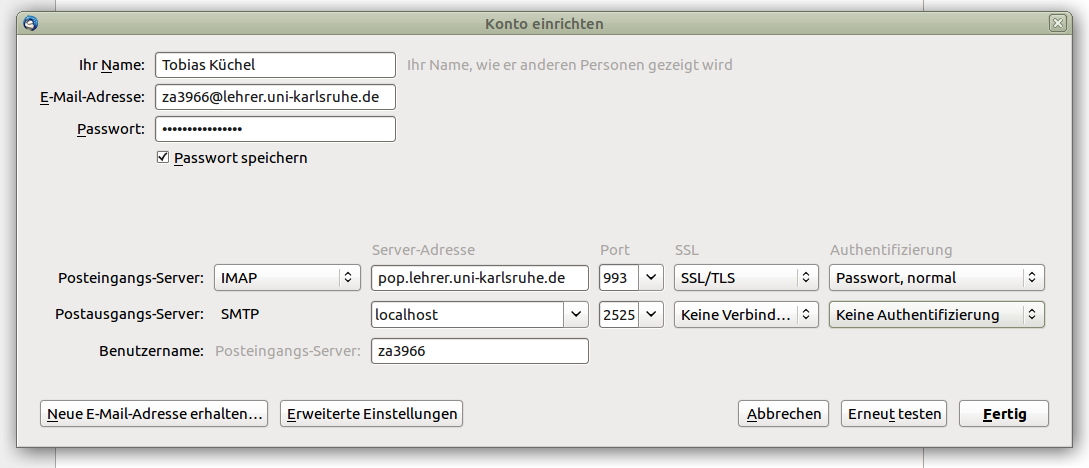
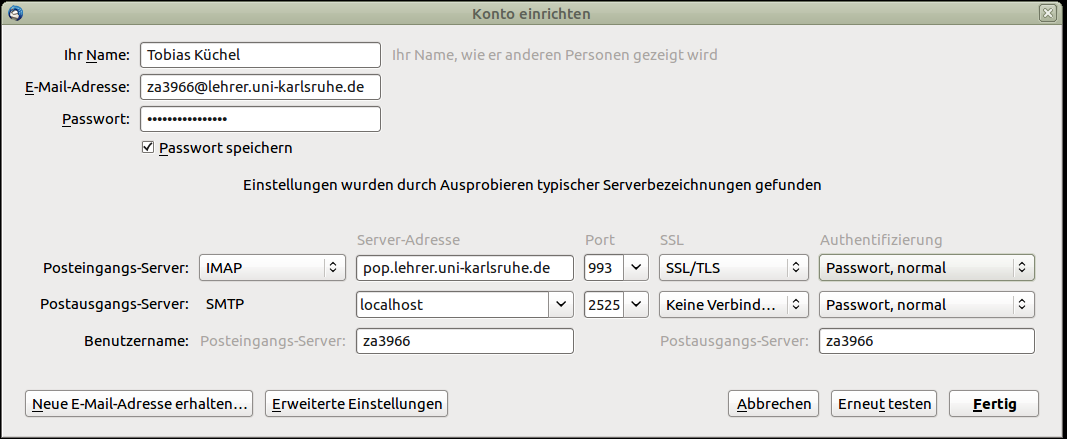
add mobile view in webmail, finish thunderbird receiving

diff --git a/source/email/thunderbird.rst b/source/email/thunderbird.rst
@@ -3,7 +3,7 @@
 ==================================
 
 Sie möchten Ihre E-Mails mit Hilfe eines zu Hause/an der Schule
-installierten E-Mailprogramms empfangen. Das geht.  Senden geht
+installierten E-Mailprogramms empfangen. Das geht. Senden geht
 zunächst nicht.
 
 Am Beispiel von `Mozilla Thunderbird
@@ -25,15 +25,29 @@ Nachricht* unter dem Untermenü -> *Existierendes E-Mail-Konto...*
 Anschließend wird ein neues Konto eingerichtet, dabei geben Sie Name,
 E-Mail-Adresse und Passwort ein. Ersetzen Sie dabei ``za3966`` durch
 Ihr eigenes Benutzerkonto. Wenn Sie das Passwort speichern, sollten
-Sie als Sicherheitsmaßnahme wenigstens in Thunderbird ein
-Master-Passwort vergeben.
+Sie als Sicherheitsmaßnahme wenigstens `in Thunderbird ein
+Master-Passwort vergeben
+<https://support.mozilla.org/de/kb/master-passwort>`_.
 
 .. figure:: media/thunderbird-newaccount-1.png
 
-Nachdem Thunderbird einige Server-Einstellungen vergeblich versucht
-automatisch vorzunehmen, geben Sie bitte folgende Daten von Hand ein:
+Nachdem Thunderbird einige Server-Einstellungen (unter Umständen
+vergeblich) versucht automatisch vorzunehmen, geben Sie bitte folgende
+Daten von Hand ein:
 
 .. figure:: media/thunderbird-newaccount-2.png
 
 Statt "IMAP" können Sie als Posteingangsserver auch POP3 wählen. Dann
-wird der Port automatisch auf ``995`` umgestellt.
+wird der Port automatisch auf ``995`` umgestellt.  Die Änderung des
+SMTP-Postausgangsservers auf ``localhost`` wird offensichtlich, wenn
+Sie im nächsten Schritt auch das Senden von E-Mails einrichten
+möchten.
+
+In jedem Fall wird die Wahl eines nicht-verschlüsselten Servers
+("localhost") hat eine Sicherheitswarnung zur Folge, deren Ausnahme
+sie ausnahmsweise akzeptieren können, weil Sie selbst für die
+Verschlüsselung sorgen werden.
+
+.. figure:: media/thunderbird-newaccount-3.png
+
+

diff --git a/source/email/webmail.rst b/source/email/webmail.rst
@@ -6,18 +6,16 @@ Das E-Mail-Konto lässt sich am einfachsten über den Browser nutzen:
 
 https://webmail.lehrer.uni-karlsruhe.de
 
-Ändern Sie vor der ersten Nutzung bitte Ihr Passwort: :ref:`label-passwort-aendern`.
-
-Melden Sie sich im Browser mit Ihrem Benutzernamen und Ihrem Passwort an:
+Ändern Sie vor der ersten Nutzung bitte Ihr Passwort:
+:ref:`label-passwort-aendern`.  Melden Sie sich im Browser mit Ihrem
+Benutzernamen und Ihrem Passwort an, auf mobilen Endgeräten kann die
+mobile Ansicht angezeigt werden.
 
 .. figure:: media/roundcube-login.png
 
 Standardmäßig sehen Sie Ihren Posteingang.
 
 .. figure:: media/roundcube-defaultview.png
-
-Die Bedienung eines Webmailers sollte intuitiv sein und wird hier
-weiter nicht beschrieben. 
 
 .. note::
 
@@ -48,3 +46,18 @@ Benutzerkonto eines Benutzers senden indem Sie dessen E-Mail-Adresse
 Sobald Sie ein Adressbuch anlegen und befüllen (oder Daten
 importieren), können Sie auch im Feld des Empfängers mit einigen
 Anfangsbuchstaben Vorschläge auswählen.
+
+Mobile Ansicht
+==============
+
+Sollten Sie ein mobiles Endgerät verwenden, dann dies die Software in
+der Regel erkennen und Ihnen eine mobile Ansicht zur Verfügung
+stellen.  Ist dies nicht der Fall, können Sie nach der Anmeldung oben
+links auf "Mobile view" klicken und erhalten ab sofort die mobile Ansicht.
+
+.. figure:: media/roundcube-switch-to-mobile.png
+
+Die mobile Ansicht erlaubt ebenfalls alle Einstellungen zu ändern.
+
+.. figure:: media/roundcube-defaultview-mobile.png
+

diff --git a/source/benutzerkonto/index.rst b/source/benutzerkonto/index.rst
@@ -6,6 +6,9 @@ Sie haben bereits ein Konto? Dann lesen Sie hier weiter.  Falls nicht,
 besuchen Sie die Homepage http://www.lehrer.uni-karlsruhe.de und
 beantragen Sie ein Konto.
 
+Möchten Sie Ihr Konto löschen lassen? Kontaktieren Sie
+tobias.kuechel@lehrer.uni-karlsruhe.de.
+
 Folgende Anleitungen finden Sie hier:
 
 .. toctree::

diff --git a/source/benutzerkonto/installation.rst b/source/benutzerkonto/installation.rst
@@ -6,7 +6,6 @@ Einloggen) und meist auch ein SFTP-Programm (zum Datentransfer). Für
 die drei wichtigsten Desktop-Betriebssysteme gibt es hier Links zum
 Download von Programmen.
 
-
 Linux
 -----
 
